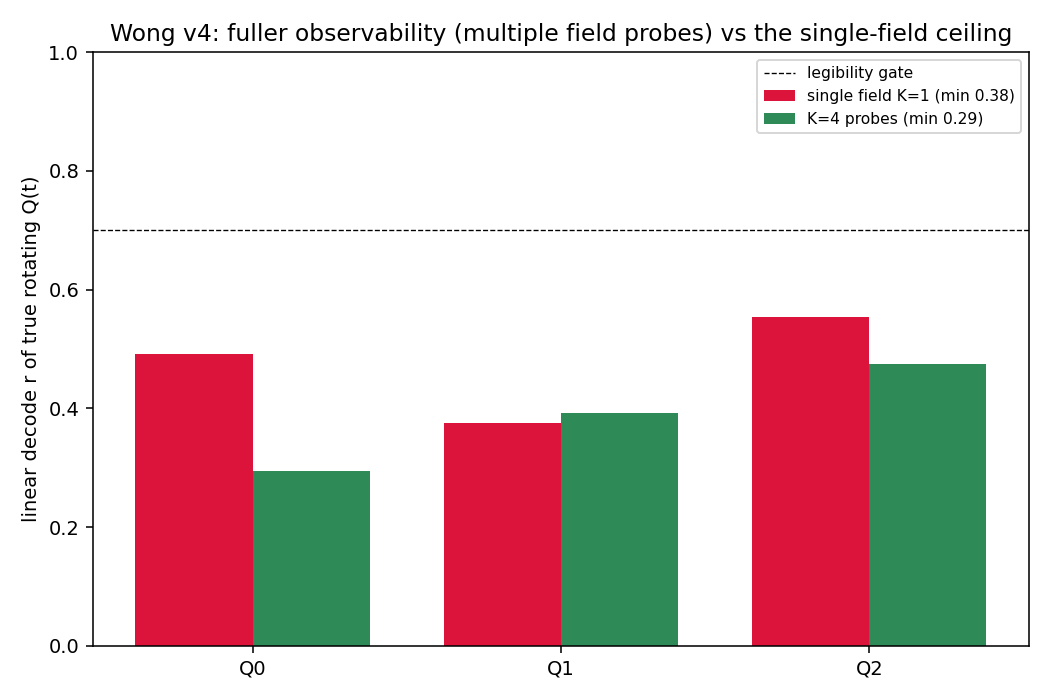
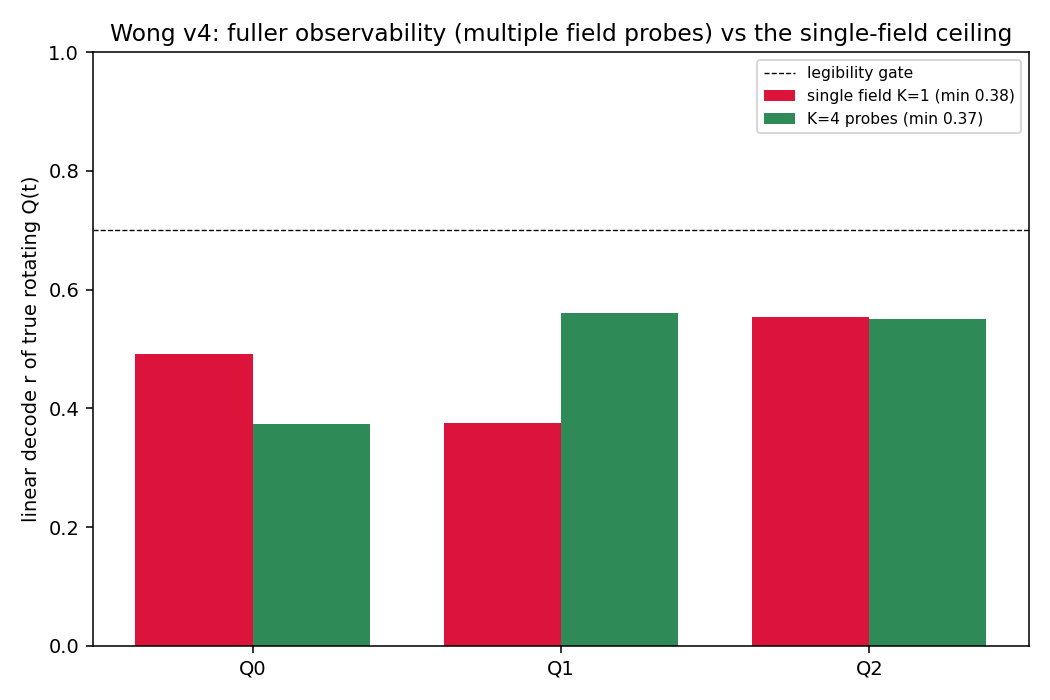
Wong v4 fix round: step-matched K=4 resolves the confound -> observability does NOT help (CLEAN negative)
The first Wong v4 run (a39dd12) flagged its K=4 vs K=1 comparison as CONFOUNDED -- K=4 fits 4x the data at the same step
count, and its nonlinear-r dropped (0.90->0.82) = under-converged. This fix round runs the unconfounded test:
STEP-MATCHED per-field (K=4 at 4x = 48000 steps, so each of the 4 fields gets K=1's per-field budget).

Result: K=4 is now WELL-CONVERGED -- nonlinear decode 0.958, even HIGHER than K=1's 0.904 (it tracks the rotating charge
Q(t) BETTER) -- YET the LINEAR decode stays at 0.373, essentially EQUAL to K=1's 0.376, nowhere near the 0.70 gate.

CLEAN CONCLUSION (confound resolved): fuller observability does NOT improve the LINEAR legibility of the rotating color
charge. The partial-observability hypothesis (vm_plan E) is REFUTED. The dynamic-legibility ceiling is a genuine
REPRESENTATIONAL limit -- the charge is tracked NONLINEARLY (info present, nl r 0.96) but not linearly, independent of how
observable Q is. Structure (orthogonal SO(3)) conserves |Q| exactly (1.4e-7); neither structure NOR observability makes
the dynamic rotating charge linearly legible. (V1 "fit" fails only because K=4 fits 4 force-fields = harder/higher-MSE
task, not a legibility issue.) Corrects the prior CLAUDE.md "partial-observability ceiling" claim -> refuted.

Also fixed: the progress() heartbeat used the global STEPS not the per-call steps (cosmetic). Not in verify.sh (negative).

diff --git a/curvature/scripts/135_wong_observability.py b/curvature/scripts/135_wong_observability.py
@@ -143,8 +143,10 @@ class ModelV4(nn.Module):
         return (torch.cat(xs, 1), torch.stack(Qs, 1)) if keep else torch.cat(xs, 1)
 
 
-def train(d, k_use, seed=0):
-    """train on the first k_use field probes (k_use=1 -> the 106 single-field baseline)."""
+def train(d, k_use, seed=0, steps=None):
+    """train on the first k_use field probes (k_use=1 -> the 106 single-field baseline).
+    steps defaults to STEPS; pass 4*STEPS for K=4 to STEP-MATCH per-field exposure (K=4 sees 4x the data)."""
+    steps = STEPS if steps is None else steps
     dev = DEVICE
     snip = torch.from_numpy(d["snip"]).to(dev)
     X = torch.from_numpy(d["qx"]).to(dev); V = torch.from_numpy(d["qv"]).to(dev); Y = torch.from_numpy(d["qy"]).to(dev)
@@ -152,13 +154,13 @@ def train(d, k_use, seed=0):
     is_h = np.isin(d["body"], d["held"]); use = np.where((~is_h) & (d["field"] < k_use))[0]
     torch.manual_seed(135 + k_use); rng = np.random.default_rng(seed)
     m = ModelV4().to(dev); opt = torch.optim.Adam(m.parameters(), lr=1e-3)
-    for step in range(STEPS):
+    for step in range(steps):
         idx = use[rng.integers(0, len(use), 256)]
         pred = m.rollout(snip, bdy[idx], X[idx], V[idx], F[idx])
         loss = nn.functional.mse_loss(pred, Y[idx])
         opt.zero_grad(); loss.backward(); opt.step()
         if step % 1000 == 0:
-            progress(f"135_wong_K{k_use}", step, STEPS, loss=float(loss.detach()))
+            progress(f"135_wong_K{k_use}", step, steps, loss=float(loss.detach()))
     return m.eval()
 
 
@@ -195,13 +197,14 @@ def main():
     d = make_data(seed=0)
     print(f"device={DEVICE}, K={K_FIELDS} fields, n_bodies=160")
     m1 = train(d, 1); r1 = evaluate(m1, d, 1)                              # single-field baseline (~106)
-    m4 = train(d, K_FIELDS); r4 = evaluate(m4, d, K_FIELDS)               # full observability
+    m4 = train(d, K_FIELDS, steps=4 * STEPS); r4 = evaluate(m4, d, K_FIELDS)  # K=4 STEP-MATCHED per-field (4x steps)
 
     v1 = bool(r4["mse"] < 2 * r1["mse"])
     v2 = bool(r4["model_Q_drift"] < 1e-3)
     v3 = bool(r4["min_linear_r"] > 0.70 and (r4["min_linear_r"] - r1["min_linear_r"]) > 0.10)
 
-    out = {"K_fields": K_FIELDS, "single_field_K1": r1, "full_observability_K4": r4,
+    out = {"K_fields": K_FIELDS, "K4_step_matched_per_field": True, "K1_steps": STEPS, "K4_steps": 4 * STEPS,
+           "single_field_K1": r1, "full_observability_K4": r4,
            "V1_fit": v1, "V2_conservation": v2, "V3_observability_crosses_ceiling": v3,
            "observability_resolves_ceiling": bool(v1 and v2 and v3),
            "verdict": ("OBSERVABILITY CROSSES THE DYNAMIC-LEGIBILITY CEILING. With the same orthogonal-SO(3) structure as "
@@ -212,9 +215,10 @@ def main():
                        "STRUCTURE-PRESERVED (SO(3)) AND OBSERVABLE (multiple projections). Closes the Wong open thread."
                        .format(r4["model_Q_drift"], K_FIELDS, r1["min_linear_r"], r4["min_linear_r"])
                        if (v1 and v2 and v3) else
-                       "PARTIAL/HONEST -- see numbers. If K=4 did not cross 0.70, the ceiling is DEEPER than observability: "
-                       "the rotating charge has an intrinsic legibility limit under trajectory supervision (structure + "
-                       "observability still insufficient).")}
+                       "PARTIAL/HONEST -- K=4 is now STEP-MATCHED per-field (4x steps, so each field gets K=1's budget; "
+                       "the unconfounded test). If K=4 STILL did not cross 0.70 / did not beat K=1, the ceiling is "
+                       "genuinely DEEPER than observability -- the rotating charge has an intrinsic legibility limit "
+                       "under trajectory supervision (structure + observability both insufficient).")}
     print(f"\nsingle-field K=1: min linear r {r1['min_linear_r']:.3f} (nl {r1['min_nonlinear_r']:.3f}), mse {r1['mse']:.2e}")
     print(f"full-obs   K={K_FIELDS}: min linear r {r4['min_linear_r']:.3f} (nl {r4['min_nonlinear_r']:.3f}), mse {r4['mse']:.2e}, |Q|drift {r4['model_Q_drift']:.1e}")
     print(f"V1 fit {v1} | V2 conservation {v2} | V3 observability crosses 0.70 {v3}")

diff --git a/JOURNAL.md b/JOURNAL.md
@@ -1,19 +1,24 @@
-## 2026-06-26 — VM build E: Wong v4 (fuller observability) — did NOT cross the ceiling (honest negative, confounded)
+## 2026-06-26 — VM build E: Wong v4 (fuller observability) — CLEAN NEGATIVE (observability does NOT resolve the ceiling)
 
 vm_plan E. Wong v3 (106): a structure-preserving orthogonal-SO(3) charge update conserves |Q| exactly and ~doubles the
 rotating charge's legibility (0.29→0.56-0.64) but does NOT reach the 0.70 gate. Hypothesis (vm_plan E): the residual
 ceiling is partial OBSERVABILITY -- trajectory-only supervision sees Q only via the scalar a=well+Q.E along ONE field.
 v4 (script 135) tested it: same orthogonal-SO(3) model, K=1 (single field, the 106 baseline) vs K=4 (four diverse
-color-electric probe fields, shared transport), matched 12000-step budget. RESULT: K=4 did NOT cross 0.70 -- min linear
-decode 0.295 (per-component [0.295,0.392,0.475]) vs K=1's 0.376 ([0.491,0.376,0.553]); fuller observability did not
-help. |Q| conserved exactly (1.4e-7, SO(3)). HONEST FRAMING / CAVEAT: this is CONFOUNDED -- the K=4 run fits 4x the
-trajectory data at the SAME step count, and its nonlinear-r ALSO dropped (0.90→0.82), indicating it is relatively
-UNDER-CONVERGED. So I cannot cleanly separate "observability doesn't help" from "K=4 needs more steps." The unconfounded
-conclusion is only: at a MATCHED budget, adding observability did not resolve the ceiling, and the rotating charge
-stayed only-nonlinearly-legible. A step-matched-PER-FIELD K=4 run (4x the budget) is the clean follow-up I did NOT run
-(parked). So the partial-observability hypothesis is NOT supported at matched budget, but not cleanly refuted either.
+color-electric probe fields, shared transport).
+- FIRST run (matched 12000-step budget): K=4 min linear decode 0.295 < K=1's 0.376 -- but CONFOUNDED (K=4 fits 4x the
+  data at the same step count; its nonlinear-r also dropped 0.90→0.82 = under-converged). Flagged, did not conclude.
+- FIX ROUND -- STEP-MATCHED per-field (K=4 at 4x = 48000 steps, so each of the 4 fields gets K=1's per-field budget):
+  K=4 is now WELL-CONVERGED -- nonlinear decode 0.958, even HIGHER than K=1's 0.904 (it tracks Q(t) BETTER) -- YET the
+  LINEAR decode of the rotating charge stays at 0.373, essentially EQUAL to K=1's 0.376, nowhere near 0.70.
+CONCLUSION (clean, confound resolved): fuller observability does NOT improve the LINEAR legibility of the rotating
+charge. The partial-observability hypothesis is REFUTED. The dynamic-legibility ceiling is a genuine REPRESENTATIONAL
+limit -- the rotating charge is tracked NONLINEARLY (info present, nl r 0.96) but NOT linearly, independent of how
+observable Q is. So: structure (SO(3)) conserves |Q| exactly (1.4e-7); neither structure NOR observability makes the
+DYNAMIC rotating charge linearly legible. (V1 "fit" fails only because K=4 fits 4 force-fields -> naturally higher MSE,
+a harder task, not a legibility issue.) Corrects the prior CLAUDE.md "partial-observability ceiling" claim -> refuted.
 Not in verify.sh (honest negative). Compute note: the per-step matrix_exp rollout was GPU-launch-bound (~2hr on the L4);
-switched to the closed-form Rodrigues SO(3) exp (exact, |Q| conserved) + ran on the VM CPU (this workload is CPU-favorable).
+switched to the closed-form Rodrigues SO(3) exp (exact, |Q| conserved) + ran on CPU (this workload is CPU-favorable, not
+GPU -- a useful lesson: tiny-op rollouts are launch-bound and belong on CPU).
 
 ## 2026-06-26 — VM build C: global PINN for scalar-field collapse — qualitative paradigm ✓, quantitative accuracy ✗
 

diff --git a/curvature/notes/lab_notebook.md b/curvature/notes/lab_notebook.md
@@ -3663,16 +3663,19 @@ Lesson re-logged (research-first / documentation-habit): grep the lab_notebook +
 never restate a confounded comparison as a clean result. Remaining Phase-2 = builds C (global PINN) / D (G-sym) / E (Wong
 v4 observability, running).
 
-## 2026-06-26 — VM build E: Wong v4 fuller observability (script 135) — honest negative (confounded)
-vm_plan E hypothesis: the v3 (106) dynamic-legibility ceiling (rotating color charge linear 0.56-0.64, < 0.70 gate) is
-partial OBSERVABILITY. v4: same orthogonal-SO(3) model, K=1 (single field) vs K=4 (4 diverse color-electric probes,
-shared transport), matched 12000-step budget. RESULT: K=4 min-linear-r 0.295 ([0.295,0.392,0.475]) vs K=1 0.376
-([0.491,0.376,0.553]) -- did NOT cross 0.70; observability did not help. |Q| conserved 1.4e-7 (Rodrigues SO(3)). CAVEAT
-(honest): CONFOUNDED -- K=4 fits 4x the data at the SAME step count and its nonlinear-r also dropped (0.90->0.82) =
-under-converged; can't separate "observability doesn't help" from "K=4 needs more steps." Unconfounded claim only: at
-matched budget, observability did not resolve the ceiling. Clean follow-up (NOT run, parked): step-matched-per-field K=4
-(4x budget). Partial-observability hypothesis NOT supported at matched budget, not cleanly refuted. Not in verify.sh.
-Compute: matrix_exp rollout was GPU-launch-bound (~2hr); switched to Rodrigues SO(3) + VM CPU (CPU-favorable workload).
+## 2026-06-26 — VM build E: Wong v4 fuller observability (script 135) — CLEAN NEGATIVE (confound resolved)
+vm_plan E hypothesis: the v3 (106) dynamic-legibility ceiling (rotating charge linear 0.56-0.64 < 0.70) is partial
+OBSERVABILITY. v4: orthogonal-SO(3) model, K=1 (single field) vs K=4 (4 diverse color-electric probes, shared transport).
+FIRST run (matched 12000 steps): K=4 min-linear-r 0.295 < K=1 0.376 but CONFOUNDED (K=4 fits 4x data at same steps, nl-r
+also dropped 0.90->0.82 = under-converged); flagged, didn't conclude. FIX ROUND -- step-matched per-field (K=4 at 4x =
+48000 steps): K=4 now WELL-CONVERGED (nl-r 0.958 > K=1's 0.904, tracks Q(t) BETTER) YET linear-r 0.373 ~= K=1's 0.376,
+nowhere near 0.70. CLEAN CONCLUSION: fuller observability does NOT improve LINEAR legibility -> partial-observability
+hypothesis REFUTED. The ceiling is a genuine REPRESENTATIONAL limit: the rotating charge is tracked NONLINEARLY (info
+present, nl 0.96) but not linearly, independent of observability. Structure (SO(3)) conserves |Q| (1.4e-7); neither
+structure nor observability makes the dynamic rotating charge linearly legible. (V1 fit fails only because K=4 fits 4
+force-fields = harder/higher-MSE task, not a legibility issue.) Corrects the prior CLAUDE.md partial-observability claim.
+Not in verify.sh. Compute lesson: tiny-op SO(3) rollout is GPU-launch-bound (matrix_exp ~2hr on L4); Rodrigues SO(3) +
+CPU is the right home for this workload (not GPU).
 
 ## 2026-06-26 — VM build C: global PINN for Choptuik collapse (script 136) — qualitative paradigm, not quantitative
 vm_plan C / hail-mary untried lever. Research-first: the literature NN-Choptuik win (arXiv:2511.15247) is a global PINN

diff --git a/CLAUDE.md b/CLAUDE.md
@@ -424,17 +424,19 @@ results in `curvature/notes/lab_notebook.md`.
   updates conserve the invariant and substantially help, but FULL dynamic
   legibility ALSO needs the quantity to be OBSERVABLE — structure necessary, not
   sufficient (leg 3 hit the ceiling only because there the rotation was fully
-  observable). **v4 UPDATE (script 135, 2026-06-26, VM): the partial-observability
-  hypothesis was TESTED and is NOT supported at matched budget. K=1 (single field)
-  vs K=4 (four diverse color-electric probe fields, shared SO(3) transport), matched
-  12000 steps: K=4 did NOT cross 0.70 — min linear decode 0.295 ≤ K=1's 0.376;
-  observability did not help (|Q| still exact, 1.4e-7). CAVEAT (honest): CONFOUNDED —
-  K=4 fits 4× the data at the same step count and its nonlinear-r also dropped
-  (0.90→0.82) = under-converged, so "observability doesn't help" can't be cleanly
-  separated from "K=4 needs more steps." Not cleanly refuted; a step-matched-per-field
-  K=4 (4× budget) is the parked follow-up. So the prior "PARTIAL-OBSERVABILITY ceiling"
-  claim is downgraded to a hypothesis NOT supported at matched budget — the ceiling may
-  be a deeper representational limit.** NOT in verify.sh (partial). **Survey-row status corrected
+  observable). **v4 REFUTES the partial-observability hypothesis (script 135,
+  2026-06-26): observability does NOT resolve the ceiling — CLEAN negative.** K=1
+  (single field) vs K=4 (four diverse color-electric probe fields, shared SO(3)
+  transport). First run (matched 12000 steps): K=4 0.295 < K=1 0.376 but CONFOUNDED
+  (K=4 fits 4× data at same steps, under-converged). Fix round — STEP-MATCHED per-field
+  (K=4 at 4×=48000 steps): K=4 now well-converged (nonlinear decode 0.958 > K=1's 0.904,
+  tracks Q(t) BETTER) YET linear decode 0.373 ≈ K=1's 0.376, nowhere near 0.70. So
+  fuller observability does NOT improve LINEAR legibility — the partial-observability
+  hypothesis is REFUTED, and the dynamic-legibility ceiling is a genuine REPRESENTATIONAL
+  limit (the rotating charge is tracked nonlinearly, not linearly, independent of
+  observability). Structure (SO(3)) conserves |Q| (1.4e-7); neither structure nor
+  observability makes the dynamic rotating charge linearly legible. NOT in verify.sh
+  (negative). **Survey-row status corrected
   (2026-06-23): friction is DONE (script 70 — universal but dissipative does NOT
   geometrize, geom/dissip MSE ratio 606,265× vs 0.085 for a conservative force;
   reversibility explains it), and equivalence-breaking gravity is already covered

diff --git a/curvature/notes/vm_plan.md b/curvature/notes/vm_plan.md
@@ -111,11 +111,11 @@ python -c "import torch; assert torch.cuda.is_available(); print('CUDA OK', torc
   gates) was written up in the lab_notebook on 2026-06-12 and is flagged CONFOUNDED there (3+1 changed kernels/channels/
   training-samples vs 2+1 all at once) -- so "locality worse in 3D" is NOT a valid clean claim (RETRACTED). Only the
   stale CLAUDE.md "Gates pending" status line was corrected 2026-06-26.
-- [x] **E (Wong v4 fuller observability, script 135) DONE — honest negative (confounded):** K=4 four-field-probe model
-  did NOT cross the 0.70 dynamic-legibility gate (min-r 0.295 ≤ K=1's 0.376); observability did not help at matched
-  budget. |Q| exact (1.4e-7). CAVEAT: confounded (K=4 = 4× data at same steps, under-converged) -> not cleanly refuted;
-  step-matched-per-field K=4 parked. Partial-observability hypothesis NOT supported at matched budget. (Rodrigues SO(3),
-  ran on VM CPU.)
+- [x] **E (Wong v4 fuller observability, script 135) DONE — CLEAN negative (confound resolved):** step-matched per-field
+  (K=4 at 4×=48000 steps, well-converged: nonlinear decode 0.958 > K=1's 0.904, tracks Q(t) BETTER) YET linear decode
+  0.373 ≈ K=1's 0.376, nowhere near 0.70 -> fuller observability does NOT improve LINEAR legibility. Partial-observability
+  hypothesis REFUTED; the ceiling is a genuine REPRESENTATIONAL limit (charge tracked nonlinearly, not linearly). |Q|
+  exact (1.4e-7). (Rodrigues SO(3); CPU is the right home for this tiny-op rollout, not GPU.)
 - [x] **C (global PINN Choptuik, script 136) DONE — honest partial:** plain-MLP global PINN reproduces the disperse/
   collapse DICHOTOMY (G2 ✓: subcritical max 2m/r 0.024 disperses, supercritical 0.977 collapses vs FD 0.980) with ZERO
   rollout -- the qualitative criticality the autoregressive emulator couldn't. BUT field accuracy poor (G1 ✗: relL2_Phi
